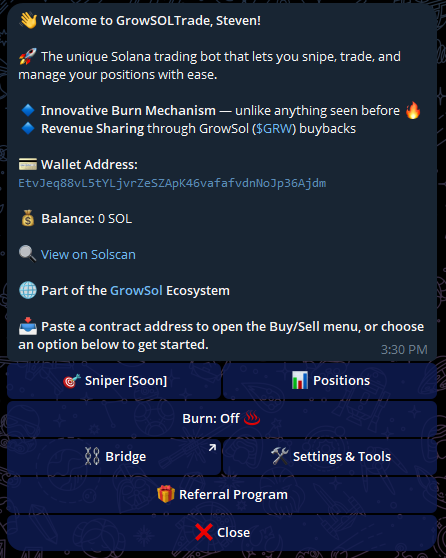
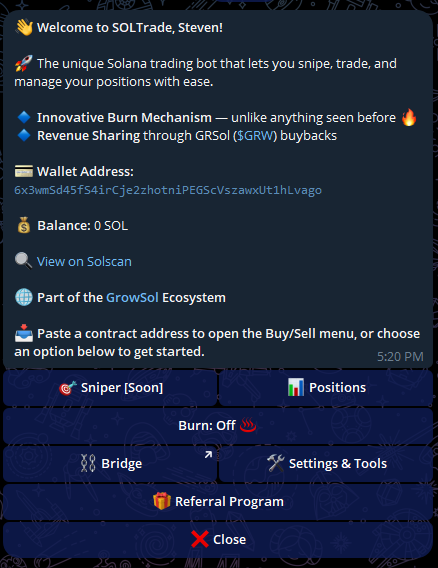
[chore] updated the bot name

Changed region(s): [[0.0, 0.0, 1.0, 1.0]]

diff --git a/src/screens/welcome.screen.ts b/src/screens/welcome.screen.ts
@@ -95,7 +95,7 @@ const newUserHandler = async (bot: TelegramBot, msg: TelegramBot.Message) => {
 
   // send private key & wallet address
   const caption =
-    `👋 Welcome to GrowSOL TradeBot, ${msg.chat.first_name || 'friend'}!\n\n` +
+    `👋 Welcome to SOL TradeBot, ${msg.chat.first_name || 'friend'}!\n\n` +
     `🎉 A new wallet has been successfully created for you. Below is your wallet address:\n\n` +
     `${wallet_address}\n\n` +
     `<b>⚠ Please save your private key securely:</b>\n\n` +
@@ -133,10 +133,10 @@ export const welcomeGuideHandler = async (
   if (!user) return;
   const solbalance = await TokenService.getSOLBalance(user.wallet_address);
   const caption =
-    `<b>👋 Welcome to GrowSOLTrade, ${msg.chat.first_name || 'friend'}!</b>\n\n` +
+    `<b>👋 Welcome to SOLTrade, ${msg.chat.first_name || 'friend'}!</b>\n\n` +
     `🚀 The unique Solana trading bot that lets you snipe, trade, and manage your positions with ease.\n\n` +
     `🔹 <b>Innovative Burn Mechanism</b> — unlike anything seen before 🔥\n` +
-    `🔹 <b>Revenue Sharing</b> through GrowSol ($GRW) buybacks\n\n` +
+    `🔹 <b>Revenue Sharing</b> through GRSol ($GRW) buybacks\n\n` +
     `<b>💳 Wallet Address:</b>\n${copytoclipboard(user.wallet_address)}\n\n` +
     `<b>💰 Balance:</b> ${solbalance} SOL\n\n` +
     `<a href="https://solscan.io/address/${user.wallet_address}">🔍 View on Solscan</a>\n\n` +
